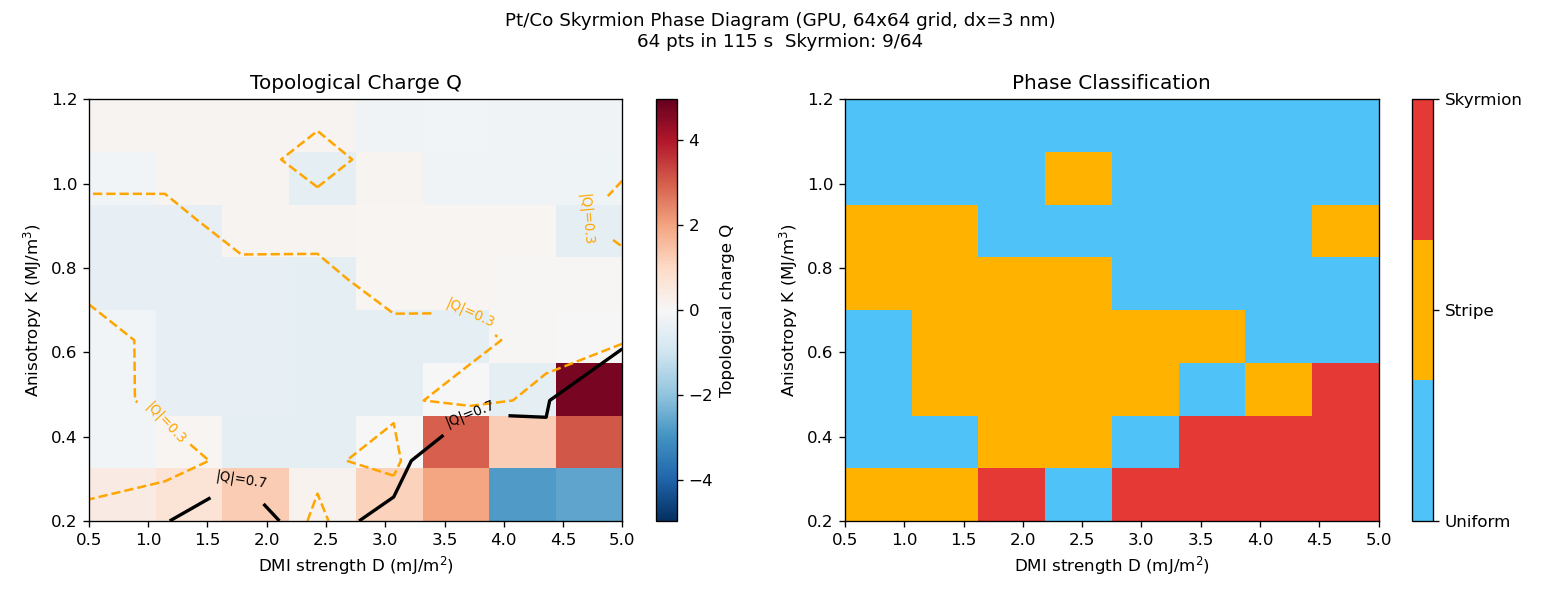
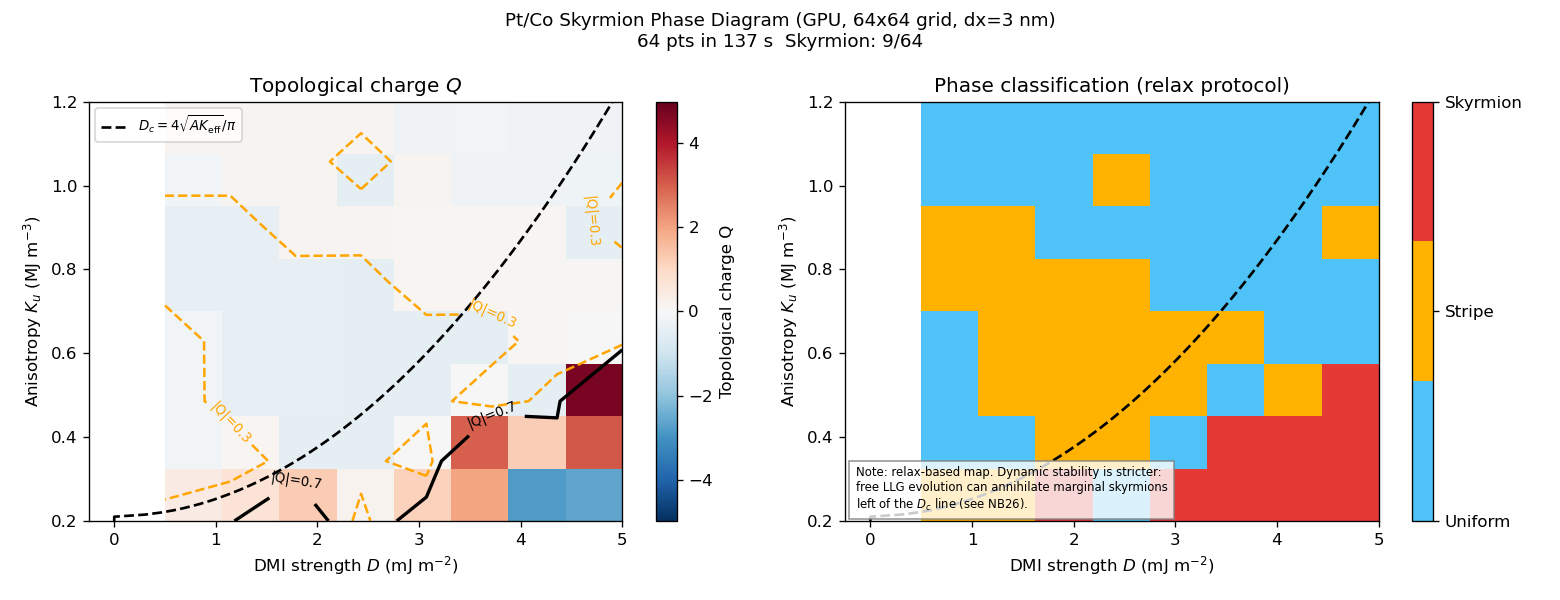
fix: deferred per-cell energy items; mx3-runner null-demag bug; NB21 stability annotation
Deferred per-cell items (completes the aedd9f1/7e2ca98 series):
- ExchangeField::energy and energy_density now honour set_region_map +
  set_inter_exchange bond couplings (same bond_A rule as accumulate);
  energy_density switches to a bond half-sum in that mode since per-bond
  couplings cannot be expressed by a cell-wise gradient. New regression test
  pins A_IEC=0 (cut bond -> zero energy) and A_IEC=A/2 (half energy).
- MinimizeGPU gains set_Ms_field(): per-cell Ms weight applied INSIDE the
  m.H reduction, so both the line-search comparisons and the returned energy
  are correctly weighted for granular/multiphase samples (previously uniform
  mat.Ms multiplied outside). Python-bound.

.mx3 runner bug (found while validating the convention mapping):
- With EnableDemag = false the GPU relax()/run() paths passed demag=None
  into APIs that require an IDemagGPU, threw internally, and the runner
  swallowed the error - relax() was a SILENT NO-OP. Added ZeroDemagGPU
  (null IDemagGPU, Python-bound) and the runner now substitutes it.
- Runner convention validation: an UNMODIFIED mumax3 bulk-DMI edge-canting
  script (Dbulk = -2 mJ/m^2, EnableDemag=false) through the runner now
  matches native mumax3 cell-by-cell to 5e-7 (Dbulk sign map + thiaville_u).
- Known open item: the Zhang-Li Walker-breakdown strip through the runner
  (relax + drive workflow) does not yet reproduce the native-seeded NB29 /
[…]

diff --git a/src/exchange.cpp b/src/exchange.cpp
@@ -155,11 +155,20 @@ Real ExchangeField::energy(const VectorField3D& m,
         const Index ic = g.linear_index(i, j, k);
         const Vec3  mc = m[ic];
         const Real  A_c = matf_ ? matf_->A_exchange(ic) : mat.A_exchange;
+        const uint8_t rid_c = rmap_ ? (*rmap_)[ic] : uint8_t{0};
 
         auto add_bond = [&](Index ni, Index nj, Index nk, Real ih2) {
             if (mask_ && (*mask_)(ni, nj, nk) < Real{0.5}) return;
             const Index in = g.linear_index(ni, nj, nk);
-            const Real  A_b = matf_ ? harmonic_mean(A_c, matf_->A_exchange(in)) : A_c;
+            // Same bond coupling as accumulate(): inter-region table first,
+            // then per-cell harmonic mean, then uniform A.
+            Real A_b;
+            if (rmap_ && (*rmap_)[in] != rid_c &&
+                !std::isnan(lookup_inter(rid_c, (*rmap_)[in]))) {
+                A_b = lookup_inter(rid_c, (*rmap_)[in]);
+            } else {
+                A_b = matf_ ? harmonic_mean(A_c, matf_->A_exchange(in)) : A_c;
+            }
             Vec3 d = m[in] - mc;
             sum += A_b * d.norm_squared() * ih2;
         };
@@ -179,9 +188,50 @@ Real ExchangeField::energy(const VectorField3D& m,
 ScalarField3D ExchangeField::energy_density(const VectorField3D& m,
                                              const Material& mat) const {
     ScalarField3D edens(m.grid());
-    if (!matf_ && mat.A_exchange == 0) return edens;
+    if (!matf_ && mat.A_exchange == 0 && !rmap_) return edens;
 
     const StructuredGrid& g = m.grid();
+
+    if (rmap_ && !inter_A_.empty()) {
+        // Inter-region couplings modify individual BONDS, which a cell-wise
+        // gradient formula cannot represent. Use the bond half-sum instead
+        // (each bond's energy split between its endpoints); consistent with
+        // energy() and accumulate().
+        const Real idx2 = 1.0 / (g.dx() * g.dx());
+        const Real idy2 = 1.0 / (g.dy() * g.dy());
+        const Real idz2 = 1.0 / (g.dz() * g.dz());
+        for (Index iz = 0; iz < g.nz(); ++iz)
+        for (Index iy = 0; iy < g.ny(); ++iy)
+        for (Index ix = 0; ix < g.nx(); ++ix) {
+            if (mask_ && (*mask_)(ix, iy, iz) < Real{0.5}) continue;
+            const Index ic = g.linear_index(ix, iy, iz);
+            const Vec3  mc = m[ic];
+            const Real  A_c = matf_ ? matf_->A_exchange(ic) : mat.A_exchange;
+            const uint8_t rid_c = (*rmap_)[ic];
+            Real e = 0;
+            auto half_bond = [&](Index ni, Index nj, Index nk, Real ih2) {
+                if (ni < 0 || ni >= g.nx() || nj < 0 || nj >= g.ny() ||
+                    nk < 0 || nk >= g.nz()) return;
+                if (mask_ && (*mask_)(ni, nj, nk) < Real{0.5}) return;
+                const Index in = g.linear_index(ni, nj, nk);
+                Real A_b;
+                if ((*rmap_)[in] != rid_c &&
+                    !std::isnan(lookup_inter(rid_c, (*rmap_)[in]))) {
+                    A_b = lookup_inter(rid_c, (*rmap_)[in]);
+                } else {
+                    A_b = matf_ ? harmonic_mean(A_c, matf_->A_exchange(in)) : A_c;
+                }
+                Vec3 d = m[in] - mc;
+                e += Real{0.5} * A_b * d.norm_squared() * ih2;
+            };
+            half_bond(ix-1, iy, iz, idx2); half_bond(ix+1, iy, iz, idx2);
+            half_bond(ix, iy-1, iz, idy2); half_bond(ix, iy+1, iz, idy2);
+            half_bond(ix, iy, iz-1, idz2); half_bond(ix, iy, iz+1, idz2);
+            edens[ic] = e;
+        }
+        return edens;
+    }
+
     for (Index iz = 0; iz < g.nz(); ++iz)
     for (Index iy = 0; iy < g.ny(); ++iy)
     for (Index ix = 0; ix < g.nx(); ++ix) {

diff --git a/benchmarks/mx3_runner_walker_check.py b/benchmarks/mx3_runner_walker_check.py
@@ -1,0 +1,63 @@
+# mx3-runner convention check: run the Zhang-Li Walker-breakdown strip as an
+# UNMODIFIED mumax3 script through Claude-SD's .mx3 runner and compare DW
+# velocities against native mumax3 (benchmarks/results/walker_mx3_native.json).
+# With the runner's mumax3 semantics (Zhang-Li thiaville_u, Dbulk sign map)
+# the two codes must agree point by point.
+#
+# Run: py -3 benchmarks/mx3_runner_walker_check.py
+import sys, json, pathlib, tempfile
+import numpy as np
+
+ROOT = pathlib.Path(__file__).resolve().parents[1]
+sys.path.insert(0, str(ROOT))
+from micromag_locate import add_micromag_to_path
+add_micromag_to_path()
+from micromag import mx3
+
+MX3_TEMPLATE = """SetGridSize(200, 10, 1)
+SetCellSize(5e-9, 5e-9, 5e-9)
+Msat = 860e3
+Aex = 13e-12
+alpha = 0.05
+Xi = 0.5
+Pol = 0.5
+m = twodomain(-1,0,0, 0,1,0, 1,0,0)
+relax()
+J = vector({J:.4e}, 0, 0)
+tableautosave(1e-11)
+run(1e-9)
+"""
+
+L = 200 * 5e-9
+J_arr = np.array([0.05, 0.1, 0.2, 0.35, 0.6, 1.0, 1.8]) * 1e12
+
+ref_path = ROOT / "benchmarks" / "results" / "walker_mx3_native.json"
+ref = json.loads(ref_path.read_text()) if ref_path.exists() else None
+
+print("J(e12)   v_runner(m/s)   v_mumax3(m/s)   ratio")
+rows = {}
+tmp = pathlib.Path(tempfile.mkdtemp(prefix="mx3walker_"))
+for J in J_arr:
+    scr = tmp / f"wk_{J:.0e}.mx3"
+    scr.write_text(MX3_TEMPLATE.format(J=J))
+    out = tmp / f"wk_{J:.0e}_out"
+    eng = mx3.run_mx3(str(scr), outdir=str(out))
+    tbl = np.loadtxt(eng.table_path)
+    t, mx_avg = tbl[:, 0], tbl[:, 1]
+    sel = t > 0.5e-9
+    # DW position from <mx>: x_w = L (1 - <mx>) / 2 -> v = -(L/2) d<mx>/dt
+    v = -(L / 2) * np.polyfit(t[sel], mx_avg[sel], 1)[0]
+    rows[f"{J:.3e}"] = v
+    if ref:
+        vref = ref[f"{J:.3e}"]
+        print(f"{J/1e12:5.2f}   {v:12.1f}   {vref:12.1f}   {v/vref:7.3f}")
+    else:
+        print(f"{J/1e12:5.2f}   {v:12.1f}")
+
+out_json = ROOT / "benchmarks" / "results" / "walker_mx3_runner.json"
+out_json.write_text(json.dumps(rows, indent=1))
+print(f"wrote {out_json}")
+if ref:
+    ratios = [rows[k] / ref[k] for k in rows if k in ref and abs(ref[k]) > 1]
+    print(f"max |ratio-1| over sub-Walker points = "
+          f"{max(abs(r - 1) for r in ratios):.3f}")

diff --git a/notebooks/21_skyrmion_phase_diagram_gpu.py b/notebooks/21_skyrmion_phase_diagram_gpu.py
@@ -197,9 +197,18 @@ try:
     cs = ax.contour(D_g, K_g, np.abs(Q_map), levels=[0.3, 0.7],
                     colors=['orange', 'black'], linewidths=[1.5, 2.0], linestyles=['--', '-'])
     ax.clabel(cs, fmt={0.3: '|Q|=0.3', 0.7: '|Q|=0.7'}, fontsize=8)
-    ax.set_xlabel('DMI strength D (mJ/m$^2$)')
-    ax.set_ylabel('Anisotropy K (MJ/m$^3$)')
-    ax.set_title('Topological Charge Q')
+    # analytic single-skyrmion stability boundary D_c = 4 sqrt(A K_eff)/pi
+    # (K_eff = K - mu0 Ms^2/2: PMA reduced by the thin-film shape anisotropy)
+    mu0_ = 4e-7 * np.pi
+    K_line = np.linspace(K_values[0], K_values[-1], 200)
+    K_eff  = K_line - 0.5 * mu0_ * Ms**2
+    Dc_line = 4.0 * np.sqrt(A * np.clip(K_eff, 0, None)) / np.pi
+    ax.plot(Dc_line * 1e3, K_line * 1e-6, 'k--', lw=1.6,
+            label=r'$D_c = 4\sqrt{A K_\mathrm{eff}}/\pi$')
+    ax.legend(fontsize=8, loc='upper left')
+    ax.set_xlabel(r'DMI strength $D$ (mJ m$^{-2}$)')
+    ax.set_ylabel(r'Anisotropy $K_u$ (MJ m$^{-3}$)')
+    ax.set_title('Topological charge $Q$')
 
     # Phase map (categorical)
     ax = axes[1]
@@ -213,9 +222,16 @@ try:
                      cmap=cmap_ph, vmin=0, vmax=2)
     cbar2 = plt.colorbar(im2, ax=ax, ticks=[0, 1, 2])
     cbar2.ax.set_yticklabels(['Uniform', 'Stripe', 'Skyrmion'])
-    ax.set_xlabel('DMI strength D (mJ/m$^2$)')
-    ax.set_ylabel('Anisotropy K (MJ/m$^3$)')
-    ax.set_title('Phase Classification')
+    ax.plot(Dc_line * 1e3, K_line * 1e-6, 'k--', lw=1.6)
+    ax.set_xlabel(r'DMI strength $D$ (mJ m$^{-2}$)')
+    ax.set_ylabel(r'Anisotropy $K_u$ (MJ m$^{-3}$)')
+    ax.set_title('Phase classification (relax protocol)')
+    ax.text(0.02, 0.02,
+            'Note: relax-based map. Dynamic stability is stricter:\n'
+            'free LLG evolution can annihilate marginal skyrmions\n'
+            'left of the $D_c$ line (see NB26).',
+            transform=ax.transAxes, fontsize=7, va='bottom',
+            bbox=dict(fc='white', alpha=0.8, ec='gray'))
 
     plt.suptitle(
         f'Pt/Co Skyrmion Phase Diagram (GPU, {Lx}x{Ly} grid, dx={dx*1e9:.0f} nm)\n'

diff --git a/tests/test_phase_e.cpp b/tests/test_phase_e.cpp
@@ -577,6 +577,42 @@ TEST_CASE("SkyrmionTools: bubble_pos returns (0,0) for uniform state", "[skyrmio
     REQUIRE_THAT(bpy, WithinAbs(0.0, 1e-20));
 }
 
+
+TEST_CASE("Inter-region exchange: energy paths honour A_IEC (aedd9f1 follow-up)",
+          "[inter_exchange]") {
+    // 4-cell chain, regions 0|0|1|1, a 90-degree twist at the boundary bond.
+    StructuredGrid g(4, 1, 1, 2e-9, 2e-9, 2e-9);
+    RegionMap rm(g);
+    rm[0] = 0; rm[1] = 0; rm[2] = 1; rm[3] = 1;
+
+    Material mat;
+    mat.Ms = 8e5; mat.A_exchange = 1.3e-11;
+
+    VectorField3D m(g);
+    m[0] = {1, 0, 0}; m[1] = {1, 0, 0};
+    m[2] = {0, 1, 0}; m[3] = {0, 1, 0};   // twist sits on bond 1-2 only
+
+    ExchangeField uniform_ex;
+    const Real E_uniform = uniform_ex.energy(m, mat);
+    REQUIRE(E_uniform > 0.0);             // only the boundary bond contributes
+
+    // A_IEC = 0 cuts the boundary bond: energy must vanish (accumulate
+    // already did; previously energy() ignored the inter-region table).
+    ExchangeField cut_ex;
+    cut_ex.set_region_map(&rm);
+    cut_ex.set_inter_exchange(0, 1, 0.0);
+    REQUIRE_THAT(cut_ex.energy(m, mat), WithinAbs(0.0, 1e-30));
+    const ScalarField3D ed = cut_ex.energy_density(m, mat);
+    for (Index i = 0; i < g.size(); ++i)
+        REQUIRE_THAT(ed[i], WithinAbs(0.0, 1e-30));
+
+    // A_IEC = A/2 halves the boundary-bond energy.
+    ExchangeField half_ex;
+    half_ex.set_region_map(&rm);
+    half_ex.set_inter_exchange(0, 1, mat.A_exchange / 2);
+    REQUIRE_THAT(half_ex.energy(m, mat), WithinRel(E_uniform / 2, 1e-12));
+}
+
 // ===========================================================================
 // Inter-region exchange coupling — set_inter_exchange / [inter_exchange]
 // ===========================================================================

diff --git a/python/bind_gpu.cpp b/python/bind_gpu.cpp
@@ -56,6 +56,11 @@ void bind_gpu(py::module_& m) {
 
     // IDemagGPU: abstract interface shared by DemagFieldGPU and DemagFieldPeriodicGPU.
     py::class_<IDemagGPU, std::shared_ptr<IDemagGPU>>(m, "IDemagGPU");
+    py::class_<ZeroDemagGPU, IDemagGPU, std::shared_ptr<ZeroDemagGPU>>(
+        m, "ZeroDemagGPU",
+        "Null demag (no-op) for demag-disabled workflows that need an "
+        "IDemagGPU argument (integrators, RelaxGPU, MinimizeGPU).")
+        .def(py::init<>());
 
     // IEffectiveFieldGPU: abstract interface for all GPU fields usable with FieldSumGPU.
     // Must be registered before any class that inherits from it.
@@ -360,6 +365,11 @@ void bind_gpu(py::module_& m) {
              "Requires one D2H energy scalar per step.")
         .def("upload",   &MinimizeGPU::upload,   py::arg("m"))
         .def("download", &MinimizeGPU::download, py::arg("m_out"))
+        .def("set_Ms_field", &MinimizeGPU::set_Ms_field, py::arg("Ms"),
+             "Per-cell Ms weight for the line-search energy "
+             "(E = -mu0/2 sum Ms_i m.H dV); use with per-cell material fields.")
+        .def("clear_Ms_field", &MinimizeGPU::clear_Ms_field)
+        .def_property_readonly("has_Ms_field", &MinimizeGPU::has_Ms_field)
         .def("run",
              [](MinimizeGPU& self, const Material& mat,
                 IDemagGPU& demag, ExchangeFieldGPU& exch,

diff --git a/include/micromag/relax_gpu.hpp b/include/micromag/relax_gpu.hpp
@@ -134,6 +134,12 @@ public:
     void upload(const VectorField3D& m);
     void download(VectorField3D& m) const;
 
+    // Optional per-cell Ms: weights the line-search energy per cell
+    // (E = -mu0/2 sum Ms_i m.H dV). Without it the uniform mat.Ms is used.
+    void set_Ms_field(const ScalarField3D& Ms);
+    void clear_Ms_field();
+    bool has_Ms_field() const { return d_Ms_w_ != nullptr; }
+
     // Fixed-field overload.
     int run(const Material& mat,
             IDemagGPU& demag,
@@ -157,6 +163,8 @@ private:
     GReal*  d_H_       = nullptr;   // [3N] effective field scratch
     double* d_max_     = nullptr;   // [1] reduction scalar output (CUB); stays double
     double* d_energy_  = nullptr;   // [N] per-cell scratch (m·H or |m×H|²); double
+    double* d_Ms_w_    = nullptr;   // [N] optional per-cell Ms weight for the
+                                    // line-search energy (null = uniform mat.Ms)
     void*   d_cub_tmp_ = nullptr;   // CUB DeviceReduce temp storage (lazily sized)
     size_t  cub_bytes_ = 0;
     void*   stream_= nullptr;

diff --git a/python/micromag/mx3.py b/python/micromag/mx3.py
@@ -677,7 +677,14 @@ class Engine:
             if use_bulk:
                 fs.add(self._dmi_bulk)
             fs.add(self._zeeman)
-            demag = self._demag if self.enable_demag else None
+            if self.enable_demag:
+                demag = self._demag
+            else:
+                # EnableDemag=false: null demag keeps the GPU relax/run APIs
+                # usable (previously None made relax() a silent no-op).
+                if getattr(self, "_zero_demag", None) is None:
+                    self._zero_demag = mm.ZeroDemagGPU()
+                demag = self._zero_demag
             return demag, fs
         else:
             fs = mm.EffectiveFieldSum()

diff --git a/include/micromag/demag_gpu_iface.hpp b/include/micromag/demag_gpu_iface.hpp
@@ -30,6 +30,15 @@ public:
     virtual void set_stream(void* /*s*/) {}
 };
 
+// Null demag: satisfies IDemagGPU with a no-op, for workflows that disable
+// demagnetization (e.g. the .mx3 runner's EnableDemag = false) while using
+// APIs that require a demag argument (integrators, RelaxGPU, MinimizeGPU).
+class ZeroDemagGPU : public IDemagGPU {
+public:
+    void accumulate_gpu_ptr(const GReal*, const Material&,
+                             GReal*) const override {}
+};
+
 }  // namespace micromag
 
 #endif // MICROMAG_CUDA
